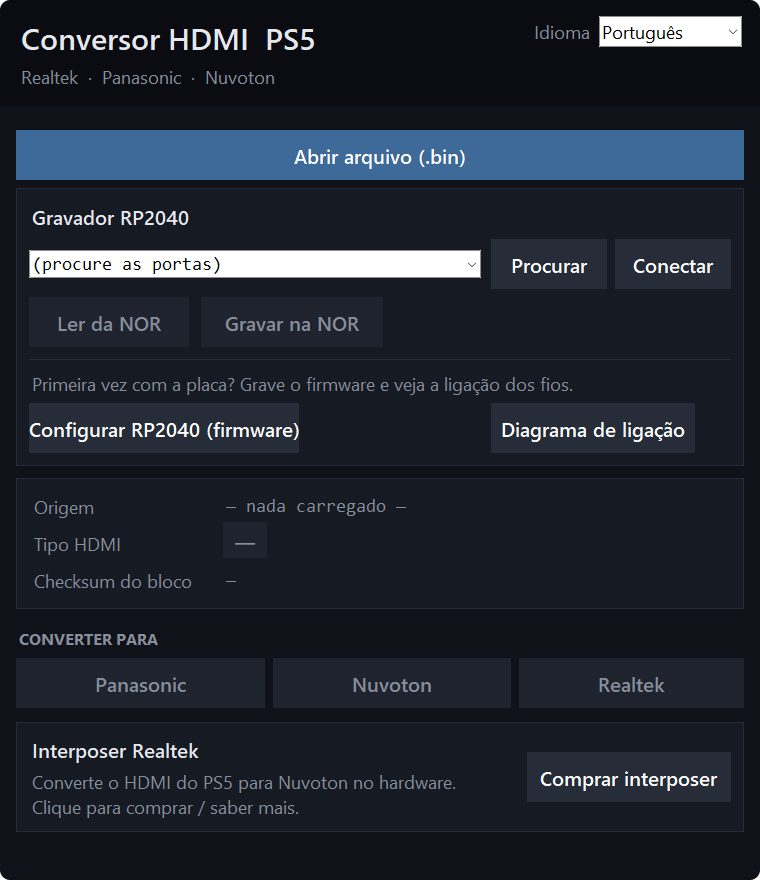
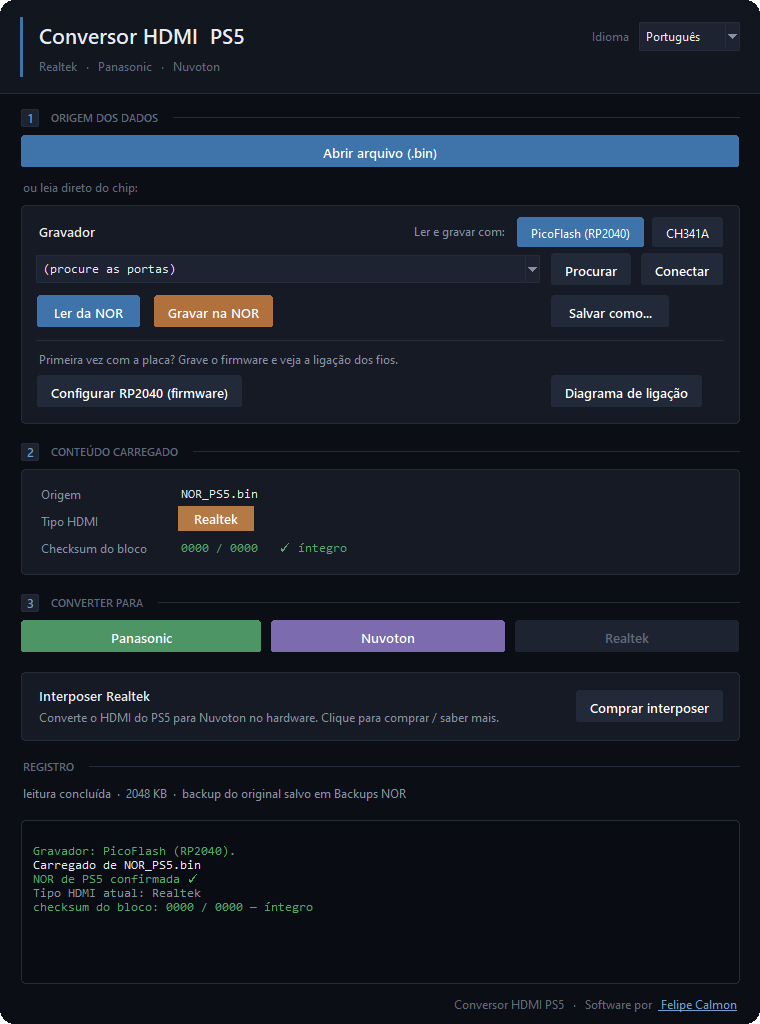
v1.2: CH341A, backup automatico da NOR e interface nova
- Leitura e gravacao tambem por CH341A, com seletor de gravador
- Backup do original gravado em "Backups NOR\" antes de converter
- Avisa quando o CI nao responde ou nao e de 2 MB, e bloqueia a leitura
- Interface refeita e janela que cabe em monitor pequeno
- Print do README atualizado

diff --git a/README.md b/README.md
@@ -5,7 +5,7 @@
 **Utilitário de bancada para trocar o tipo de HDMI gravado na NOR do PS5,
 com o checksum do bloco recalculado.**
 
-[![Baixar](https://img.shields.io/badge/Baixar-v1.1-4a78b0?style=for-the-badge&logo=windows&logoColor=white)](../../releases/latest)
+[![Baixar](https://img.shields.io/badge/Baixar-v1.2-4a78b0?style=for-the-badge&logo=windows&logoColor=white)](../../releases/latest)
 [![Idiomas](https://img.shields.io/badge/PT%20%C2%B7%20EN%20%C2%B7%20ES-trilingue-56beff?style=for-the-badge)](#-three-languages)
 [![Plataforma](https://img.shields.io/badge/Windows-sem%20instala%C3%A7%C3%A3o-0b0f17?style=for-the-badge&logo=windows&logoColor=56beff)](../../releases/latest)
 [![Interposer](https://img.shields.io/badge/Comprar-Interposer%20Realtek-2ea043?style=for-the-badge)](https://infinitygames.com.br/realtek/)
@@ -33,18 +33,21 @@ está gravado, o console não dá vídeo. Este programa troca o tipo gravado e
 |---|---|
 | **Conversão entre 3 tipos** | Realtek, Panasonic e Nuvoton, nos dois sentidos |
 | **Checksum recalculado** | As duas páginas do bloco voltam a somar `0x0000` |
-| **Leitura e gravação da NOR** | Direto por um RP2040 (Pico ou RP2040-Zero), ou abra e salve `.bin` |
+| **Leitura e gravação da NOR** | Por um RP2040 (Pico ou RP2040-Zero) ou por um CH341A, ou abra e salve `.bin` |
+| **Backup automático** | Ao ler o chip, o original é gravado em `Backups NOR\` antes de qualquer conversão |
+| **Confere o chip** | Se o CI não responder ou não for de 2 MB, avisa e não deixa ler |
 | **Valida o dump** | Só aceita NOR de PS5 (W25Q16, 2 MB) |
 | **Mostra a identidade da placa** | Modelo, serial, SKU, MACs, SOCUID, firmware e slot ativo |
 | **Não mexe na identidade** | MAC, serial, SOCUID e WiFi ficam intactos; só o setor do HDMI muda |
 | **Prepara o RP2040** | Grava o firmware (BOOTSEL) e mostra o diagrama de ligação |
+| **Janela que se ajusta** | Cabe em monitor pequeno, com rolagem quando precisa |
 | **Trilíngue** | Português, English e Español, trocando na hora |
 
 ## Como funciona
 
 ![Como funciona](docs/como-funciona.png)
 
-1. **Abrir ou ler.** Abra um `.bin` de 2 MB ou leia o chip pelo RP2040.
+1. **Abrir ou ler.** Abra um `.bin` de 2 MB, ou escolha o gravador (RP2040 ou CH341A) e leia o chip — o original fica salvo em `Backups NOR\`.
 2. **Conferir.** Veja a identidade da placa e confirme que leu o dump certo.
 3. **Converter.** O tipo escolhido **tem que casar com o hardware**: o CI físico da placa ou o interposer instalado.
 4. **Gravar.** Salve o `.bin` ou grave de volta na NOR.
@@ -64,6 +67,10 @@ Para ler e gravar a NOR direto na placa, ligue o RP2040-Zero ao chip como no
 diagrama. O mesmo diagrama está dentro do programa, no botão
 **Diagrama de ligação**.
 
+> **CH341A:** a versão comum é de **5 V** e a NOR do PS5 é de **3,3 V**. Use uma
+> placa modificada para 3,3 V ou um conversor de nível, senão o chip queima. O
+> CH341A precisa do driver **CH341PAR** (modo SPI), não do CH341SER (modo COM).
+
 <div align="center">
 
 ![Diagrama de ligação RP2040-Zero e NOR do PS5](docs/ligacao.jpg)
@@ -79,13 +86,15 @@ diagrama. O mesmo diagrama está dentro do programa, no botão
 
 **English:** bench tool that converts the HDMI type stored in the PS5 NOR
 between Realtek, Panasonic and Nuvoton, recalculating the block checksum so the
-console does not beep. Reads and writes the NOR through an RP2040. Download the
-exe from [Releases](../../releases/latest).
+console does not beep. Reads and writes the NOR through an RP2040 or a CH341A,
+and saves a backup of the original before converting. Download the exe from
+[Releases](../../releases/latest).
 
 **Español:** herramienta de banco que convierte el tipo de HDMI guardado en la
 NOR de la PS5 entre Realtek, Panasonic y Nuvoton, recalculando el checksum del
-bloque para que la consola no pite. Lee y graba la NOR mediante un RP2040. Descarga
-el exe en [Releases](../../releases/latest).
+bloque para que la consola no pite. Lee y graba la NOR mediante un RP2040 o un
+CH341A, y guarda una copia del original antes de convertir. Descarga el exe en
+[Releases](../../releases/latest).
 
 ## Interposer Realtek
 
